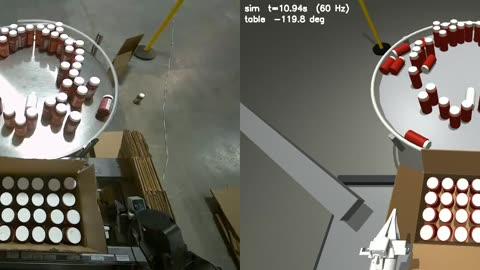
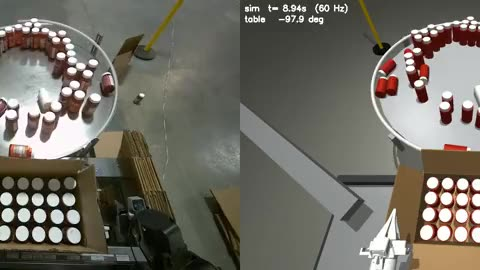
Index: looping clip thumbnails (muted, autoplay, playsinline, poster)

diff --git a/index.html b/index.html
@@ -18,7 +18,7 @@ ul{list-style:none;margin:0;padding:0}
 li{border-top:1px solid var(--rule);padding:16px 0;display:grid;grid-template-columns:168px 1fr;gap:4px 18px;align-content:start}
 li>*{grid-column:2}
 li .thumb{grid-column:1;grid-row:1/span 3;display:block;aspect-ratio:16/9;overflow:hidden;border-radius:4px;background:var(--rule)}
-li .thumb img{width:100%;height:100%;object-fit:cover;display:block}
+li .thumb img,li .thumb video{width:100%;height:100%;object-fit:cover;display:block}
 @media (max-width:520px){li{grid-template-columns:104px 1fr;gap:2px 12px}li a{font-size:19px}}
 li a{font:600 22px/1.2 var(--display);color:var(--ink);text-decoration:none}
 li a:hover{color:var(--accent)}
@@ -37,7 +37,7 @@ li p{margin:0;color:var(--muted)}
         <p>Our packaging robot in the Pi API beta launch, and why their base model impressed us.</p>
       </li>
       <li>
-        <a class="thumb" href="posts/real2sim-case-packing-cell/" tabindex="-1" aria-hidden="true"><img src="posts/real2sim-case-packing-cell/thumb.jpg" alt="" loading="lazy"></a>
+        <a class="thumb" href="posts/real2sim-case-packing-cell/" tabindex="-1" aria-hidden="true"><video src="posts/real2sim-case-packing-cell/thumb.mp4" poster="posts/real2sim-case-packing-cell/thumb.jpg" muted autoplay loop playsinline preload="metadata"></video></a>
         <time datetime="2026-10-13">October 13, 2026</time>
         <a href="posts/real2sim-case-packing-cell/">A case-packing cell, rebuilt in MuJoCo</a>
         <p>Measuring a robot cell from its own cameras and simulating it frame for frame against the real footage.</p>
